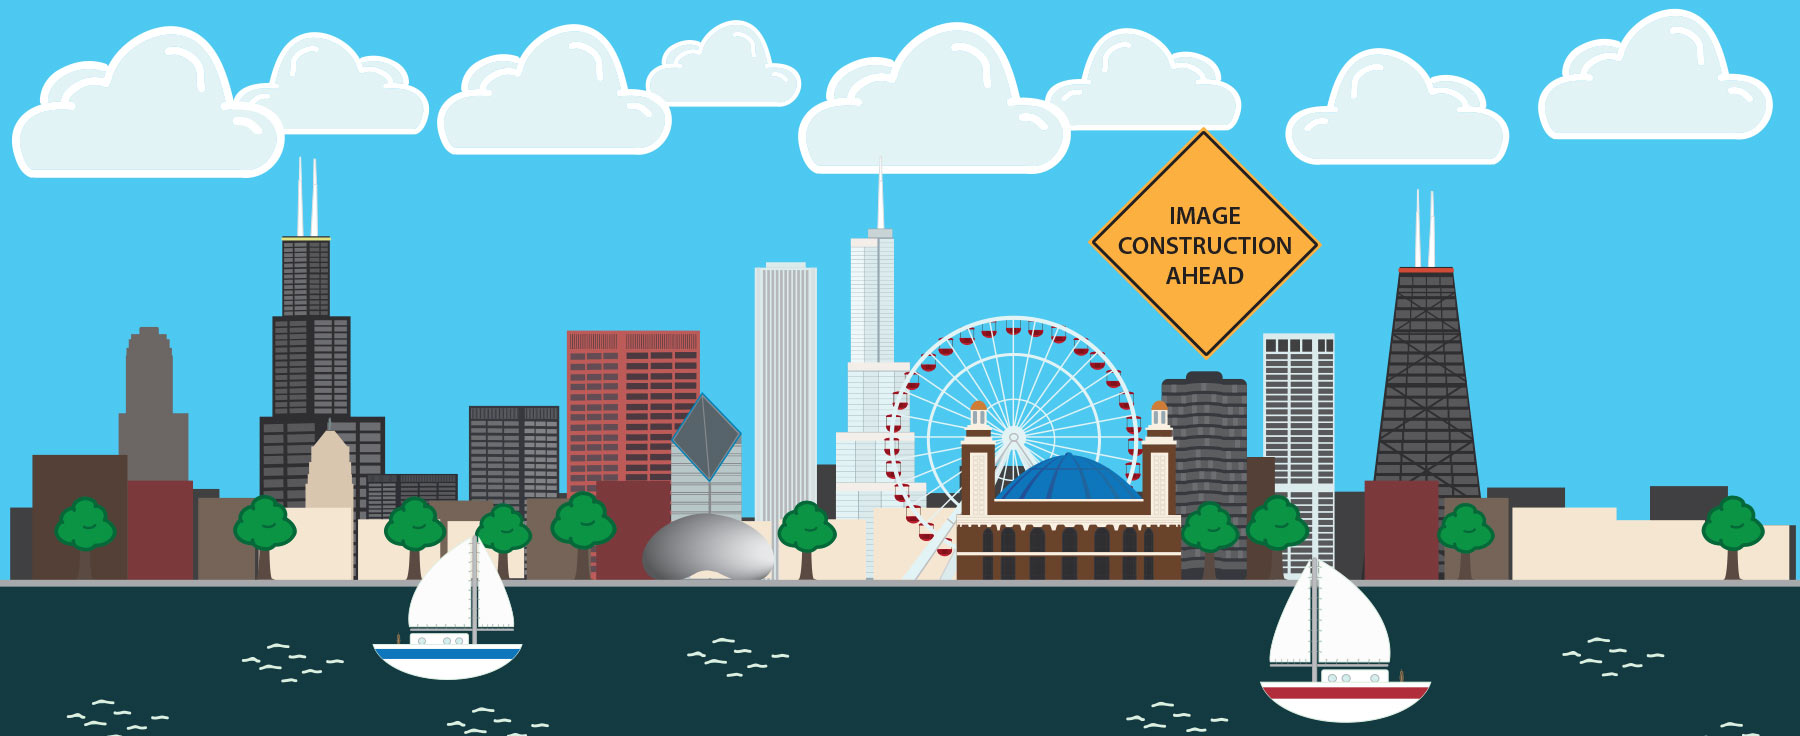
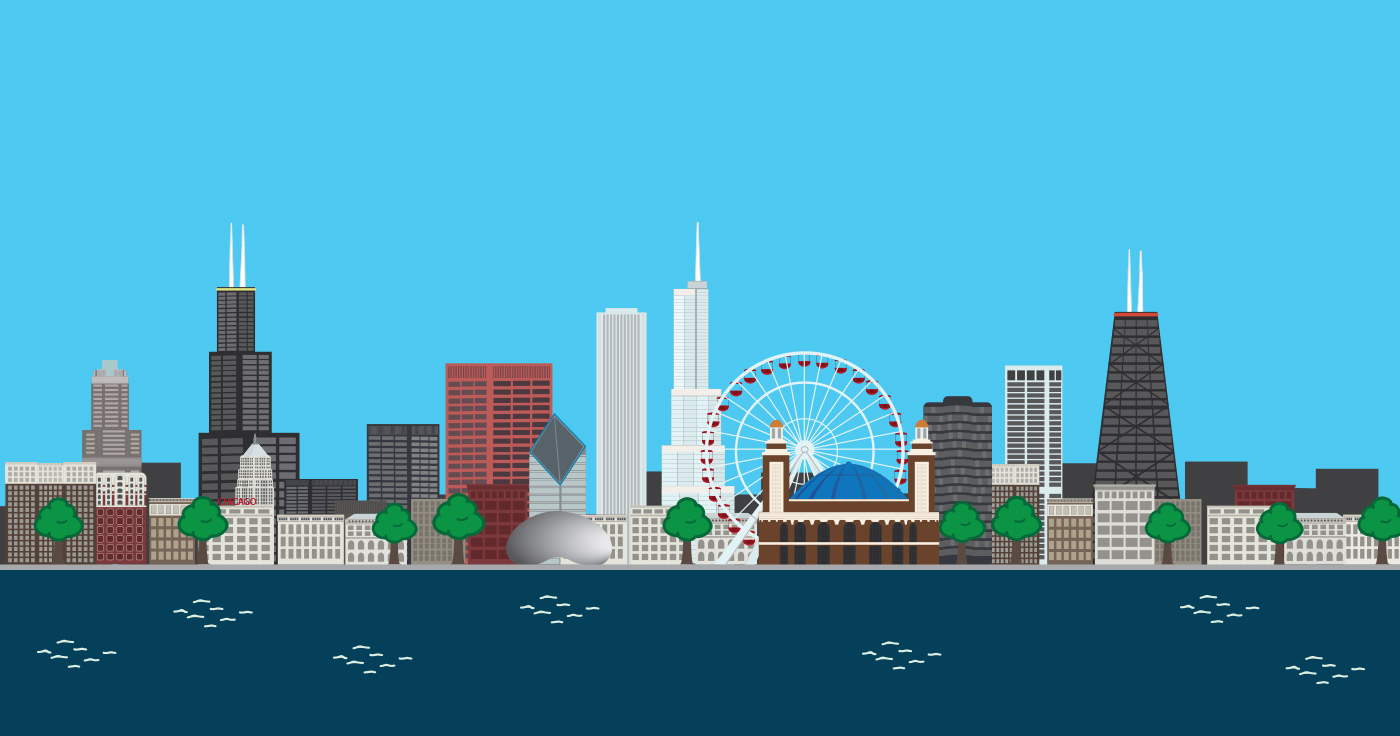
adjusted images and added animations

diff --git a/app/assets/stylesheets/creations.scss b/app/assets/stylesheets/creations.scss
@@ -1,4 +1,8 @@
+// FONTS
+$aboutMeFont: 'Lato', sans-serif;
+// COLORS
 $maincolor: #4594A4;
+
 body{
   background-color: white;
   margin: 0px;
@@ -57,64 +61,62 @@ li{
   overflow: hidden;
 }
 #container1{
-  width: 100%;
-  height: 600px;
-  background-image:  url('/portfolio_citybackground.jpg');
+  background: url('/portfolio_citybackground.jpg') no-repeat center;
   background-size: cover;
   position: relative;
   top: 60px;
-  font-family: 'Lato', sans-serif;
+  width: 100%;
+  height: 736px;
+  font-family: $aboutMeFont;
   color: white;
   font-size: 32px;
+  .cloudsFront,.cloudsBack{
+    position: relative;
+  }
+  .cloudsFront{
+    top: 26px;
+    z-index: 2;
+  }
+  .cloudsBack{
+    top: -30px;
+    z-index: 1;
+  }
+}
+.aboutME{
+  position: absolute;
+  top: 90px;
+  width: 100%;
+  height: 100%;
+  z-index: 5;
+  h1, h2, p{
+    position: relative;
+    text-shadow: 1px 1px 5px black;
+  }
+  h1{
+    top: 100px;
+    left: 45px;
+    animation-name: lightSpeedIn 2s;
+    -webkit-animation: lightSpeedIn 2s;
+    -moz-animation: lightSpeedIn 2s;
+  }
+  h2{
+    top: 105px;
+    left: 160px;
+    animation-name: lightSpeedIn 4s;
+    -webkit-animation: lightSpeedIn 4s;
+    -moz-animation: lightSpeedIn 4s;
+  }
+  p{
+    font-size: 22px;
+    top: 120px;
+    left: 190px;
+    width: 60%;
+    animation-name: lightSpeedIn 4s;
+    -webkit-animation: lightSpeedIn 4s;
+    -moz-animation: lightSpeedIn 4s;
+  }
 }
 
-.aboutME{
-  width: 80%;
-  height: 100%;
-h1, h2, p{
-  font-family: 'Lato', sans-serif;
-  position: relative;
-  text-shadow: 1px 1px 5px black;
-}
-h1{
-  top: 100px;
-  left: 45px;
-  animation-name: lightSpeedIn 2s;
-  -webkit-animation: lightSpeedIn 2s;
-  -moz-animation: lightSpeedIn 2s;
-}
-h2{
-  top: 105px;
-  left: 160px;
-  animation-name: lightSpeedIn 4s;
-  -webkit-animation: lightSpeedIn 4s;
-  -moz-animation: lightSpeedIn 4s;
-}
-p{
-  font-size: 22px;
-  top: 120px;
-  left: 190px;
-  width: 60%;
-  animation-name: lightSpeedIn 4s;
-  -webkit-animation: lightSpeedIn 4s;
-  -moz-animation: lightSpeedIn 4s;
-}
-}
-.guideTo{
-  width: 100%;
-  margin: 0px auto;
-  position: absolute;
-  bottom: 40px;
-  text-align: center;
-  a{
-    color: white;
-    text-decoration: none;
-  }
-  a:hover{
-    font-size: 33px;
-    transition: .4s;
-  }
-}
 // radial data =================================================================
 .background {
     fill: #FFFFFF;
@@ -243,11 +245,9 @@ path{
   width: 100%;
   font-family: 'Lato', sans-serif;
   position: absolute;
-  visibility: hidden;
+  display: none;
 }
-.active{
-  visibility: visible;
-}
+
 .arrowimage{
   width: 35px;
   height: 60px;
@@ -537,6 +537,18 @@ label{
     background-size: cover;
     background-position: center;
   }
+  .xmark{
+    background-image: url('/xmark.png');
+    width: 50px;
+    height: 40px;
+    display: inline-block;
+    position: absolute;
+    top: 10px;
+    right: 20px;
+    float: right;
+    background-size: cover;
+    background-position: center;
+  }
   nav{
     width: 100%;
     font-family: 'Lato', sans-serif;
@@ -575,7 +587,7 @@ label{
   }
   h2{
     top: 80px;
-    left: 160px;
+    left: 120px;
     font-size: 40px
   }
   p{
@@ -600,6 +612,24 @@ label{
 }// end of 750px media
 
 @media (max-width: 500px){
+    .aboutME{
+      h1{
+        top: 70px;
+        left: 17px;
+        font-size: 36px
+      }
+      h2{
+        top: 80px;
+        left: 17px;
+        font-size: 34px
+      }
+      p{
+        font-size: 22px;
+        top: 120px;
+        left: 40px;
+        width: 80%;
+      }
+  }
   .image{
     margin-left: 60px;
   }

diff --git a/app/assets/javascripts/creations.js b/app/assets/javascripts/creations.js
@@ -10,11 +10,15 @@ $(document).ready(function(){
   $('.contact').hide();
 // responsive nav ===================
     $('.hamIcon').click(function(){
+      $('.navigation').css({height: $(window).height() + 'px'});
       $( '.navigation ' ).slideToggle(100);
+      $('.hamIcon').toggleClass('xmark');
     });
 
     $('li').click(function(){
       $( '.removeul' ).hide();
+      $('.hamIcon').removeClass('xmark');
+      $('.hamIcon').addClass('hamIcon');
     });
 
     $(window).resize(function(){
@@ -28,6 +32,13 @@ $(document).ready(function(){
     if ($(window).width() < 750 ){
       $('.navigation').addClass('removeul');
     }
+
+    $(window).hover(function(evt){
+      var x = evt.clientX;
+      var y = evt.clienty;
+        $('.cloudsFront').css({left: x / 100}) + 'px';
+        $('.cloudsBack').css({left: - x / 100}) + 'px';
+    })
 // add shadow to nav and scroll effects================
     $(window).scroll(function() {
 
@@ -191,41 +202,41 @@ start();
   var slides = $('.devslide').find('.developwork');
   var count = 0;
 
-  $('.developwork').first().addClass("active");
 
+  $(slides[count]).show();
   $('#nextslide').on('click',function(){
-      $(slides[count]).removeClass('active');
-      count = (count + 1) % slides.length;
-      $(slides[count]).addClass("active");
+        $(slides[count]).fadeOut();
+        count = (count + 1) % slides.length;
+        $(slides[count]).fadeIn();
   });
 
   $('#prevslide').on('click',function(){
-    $(slides[count]).removeClass("active");
-     count = (count - 1);
-     if(count < 0){
-      count = slides.length - 1;
-    }
-    $(slides[count]).addClass("active");
+        $(slides[count]).fadeOut();
+        count = (count - 1);
+        if(count < 0){
+         count = slides.length - 1;
+        }
+        $(slides[count]).fadeIn();
   });
 
   var slides2 = $('.graphslide').find('.graphicswork');
   var count2 = 0;
 
-  $('.graphicswork').first().addClass("active");
 
+  $(slides2[count2]).show();
   $('#nextgraph').on('click', function(){
-    $(slides2[count2]).removeClass('active');
+    $(slides2[count2]).fadeOut();
     count2 = (count2 + 1) % slides2.length;
-    $(slides2[count2]).addClass("active");
+    $(slides2[count2]).fadeIn();
   });
 
   $('#prevgraph').on('click', function(){
-    $(slides2[count2]).removeClass("active");
-     count2 = (count2 - 1);
-     if(count2 < 0){
-      count2 = slides2.length - 1;
+    $(slides2[count2]).fadeOut();
+    count2 = (count2 - 1);
+    if(count2 < 0){
+     count2 = slides2.length - 1;
     }
-    $(slides2[count2]).addClass("active");
+    $(slides2[count2]).fadeIn();
   });
 
 }); // end of document.ready
